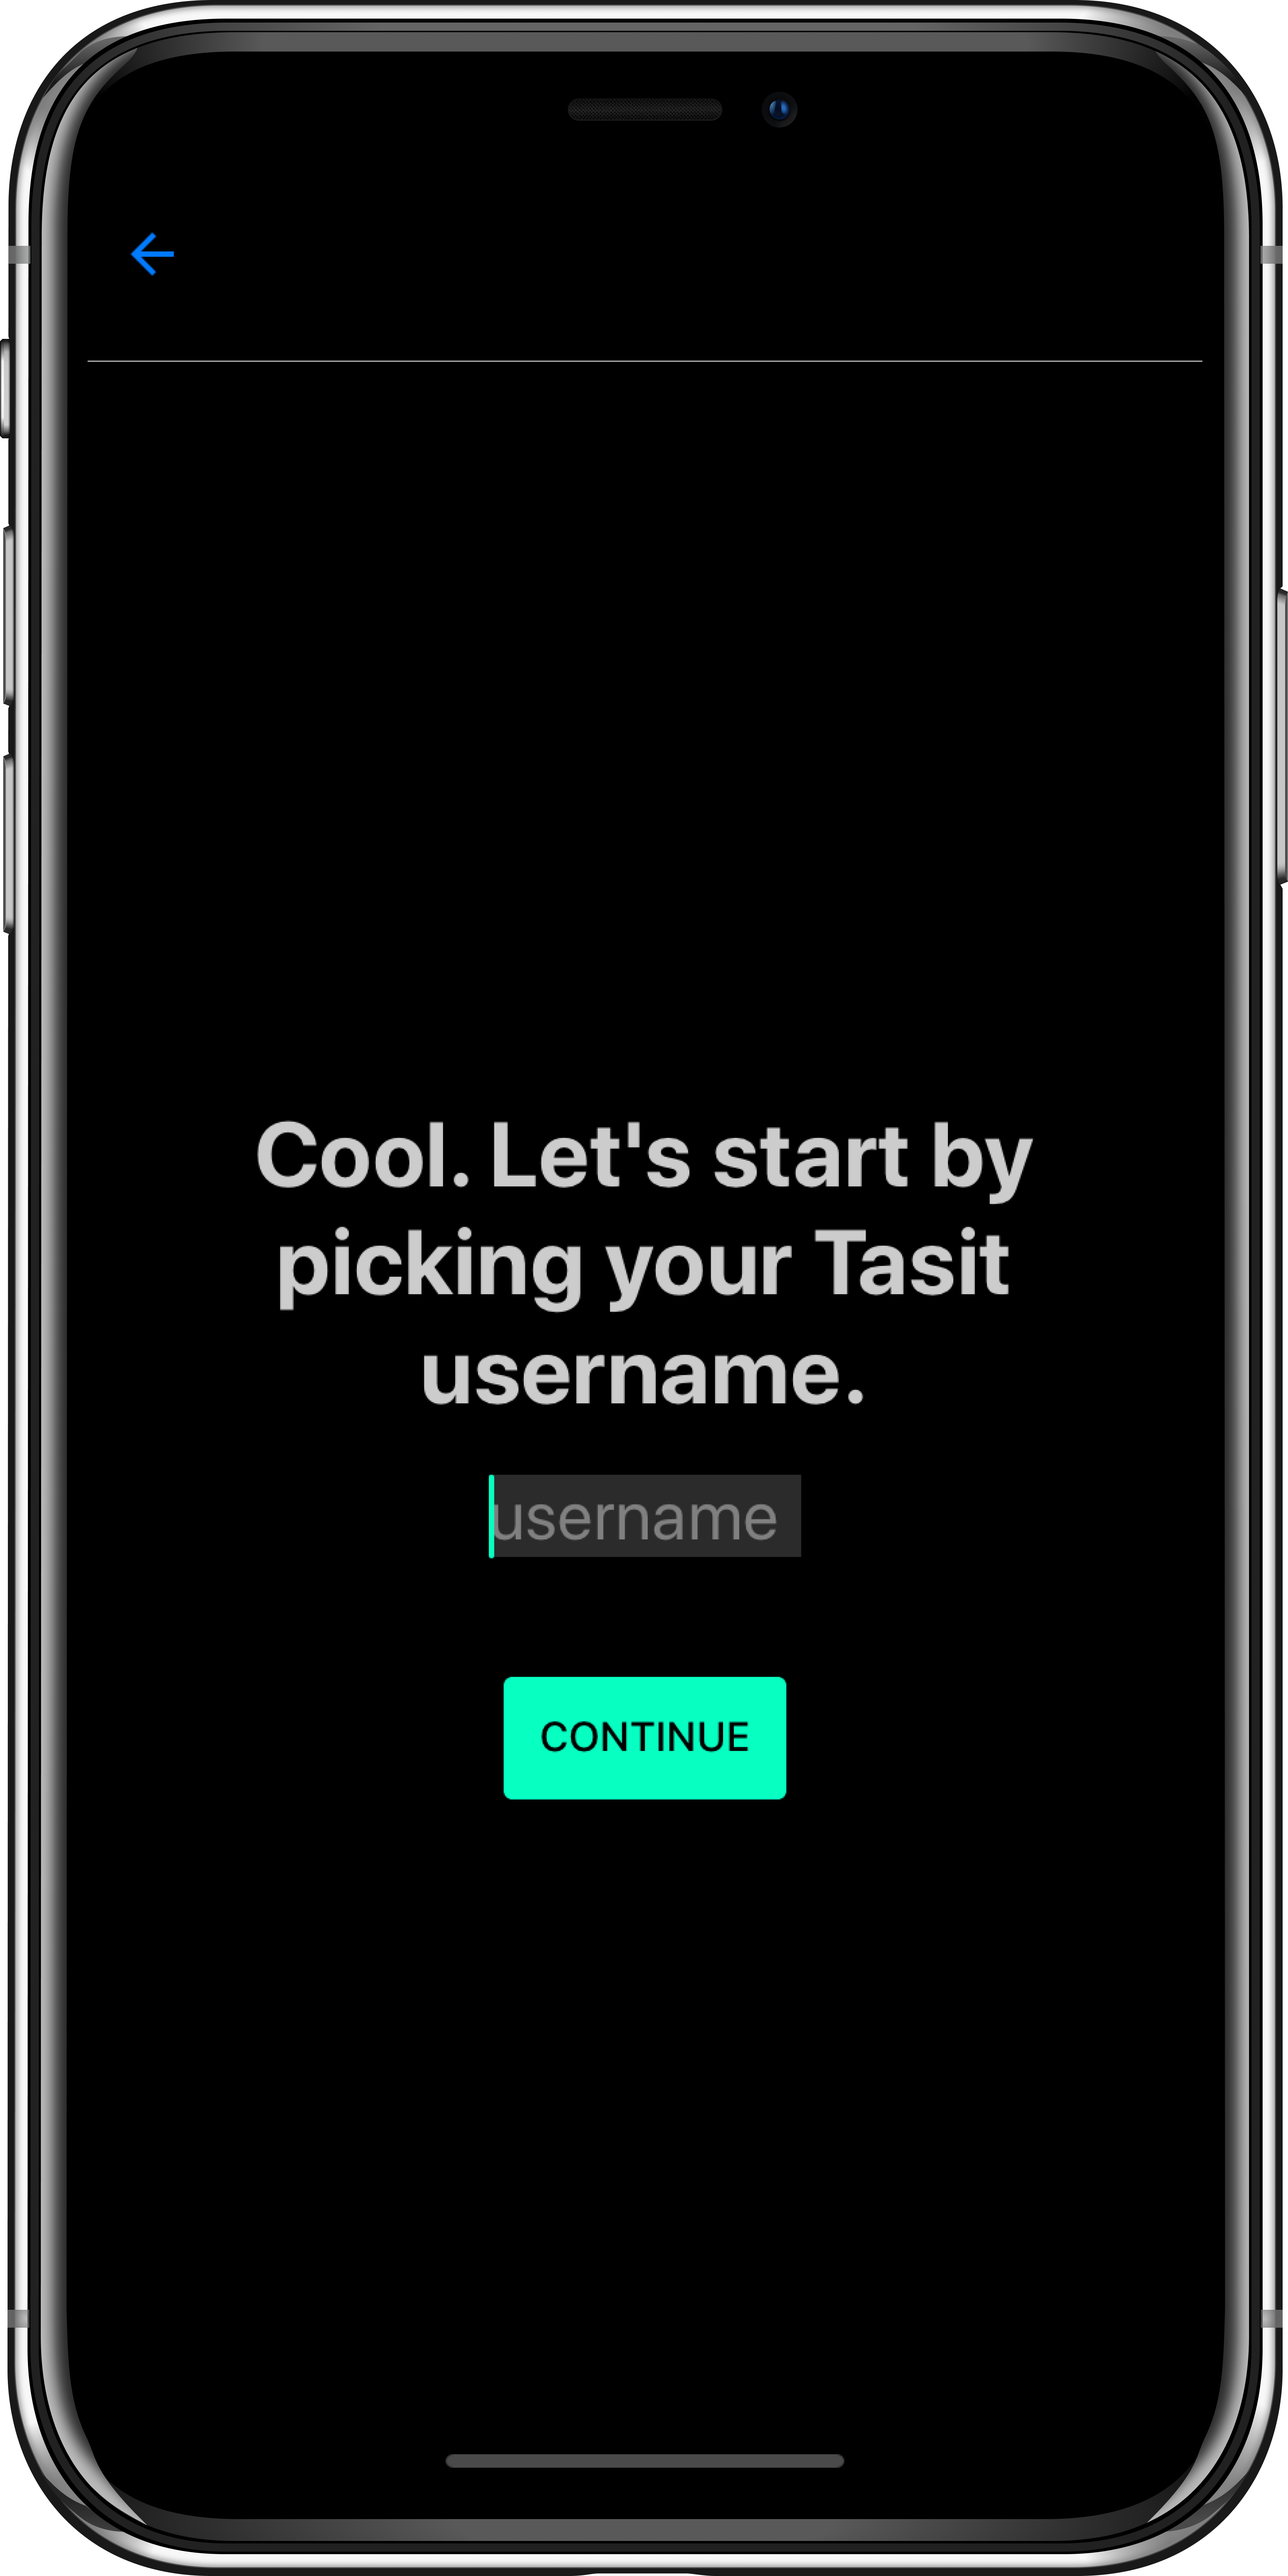
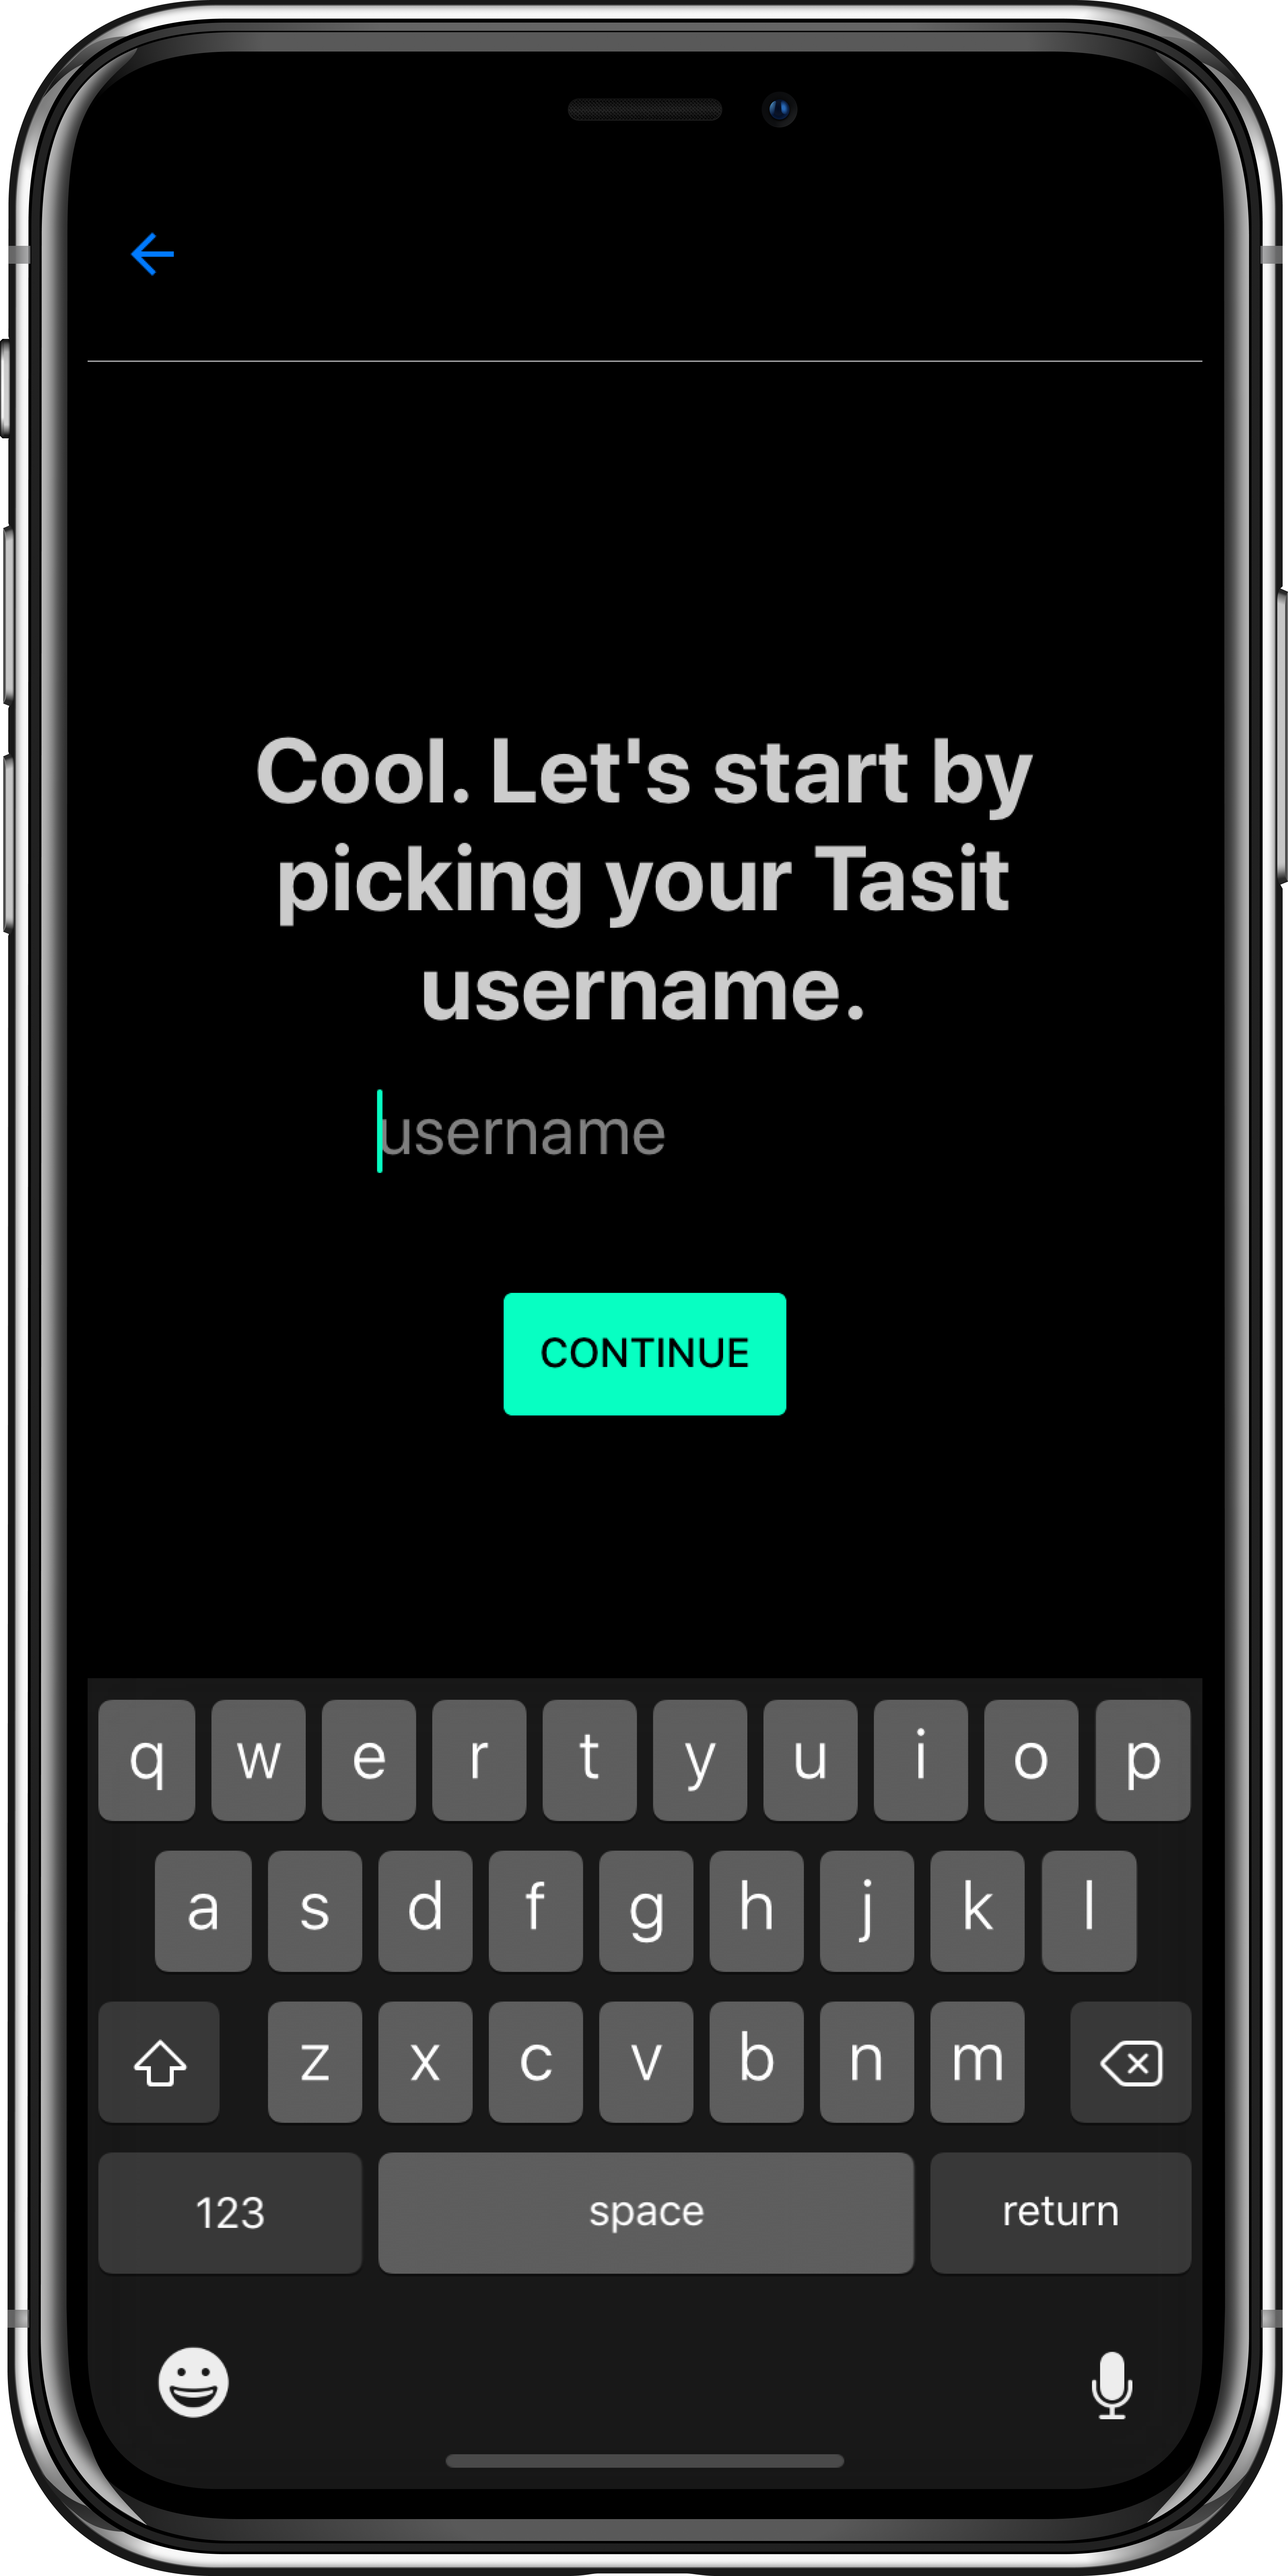
Styling username input

Changed region(s): [[0.0622, 0.6534, 0.9328, 0.9646], [0.1866, 0.4356, 0.8084, 0.6223], [0.1866, 0.28, 0.8084, 0.4045]]

diff --git a/decentraland/components/presentational/EthereumSignUpForm/EthereumSignUpForm.js b/decentraland/components/presentational/EthereumSignUpForm/EthereumSignUpForm.js
@@ -43,6 +43,7 @@ export function UsernameTextInput({ onChange, username }) {
   return (
     <TextInput
       autoCorrect={false}
+      autoFocus={true}
       autoCapitalize="none"
       style={styles.userInput}
       onChangeText={onChange}
@@ -76,7 +77,7 @@ const styles = StyleSheet.create({
     color: Colors.textColor,
     fontSize: responsiveFontSize(3),
     justifyContent: "flex-start",
-    width: responsiveWidth(28),
+    width: responsiveWidth(48),
   },
   userInputView: { alignItems: "center", flex: 1 },
   userRow: { flexDirection: "row" },

diff --git a/decentraland/constants/Colors.js b/decentraland/constants/Colors.js
@@ -19,7 +19,7 @@ export default {
   disabledButtonTextColor: WHITE,
   disabledButtonBackground: GRAY,
   selection: MAIN_GREEN,
-  formBackground: GRAY_DARK,
+  formBackground: BLACK,
   icons: MAIN_PURPLE,
   loadingColor: MAIN_GREEN,
   assetInfoText: GRAY_LIGHT,
